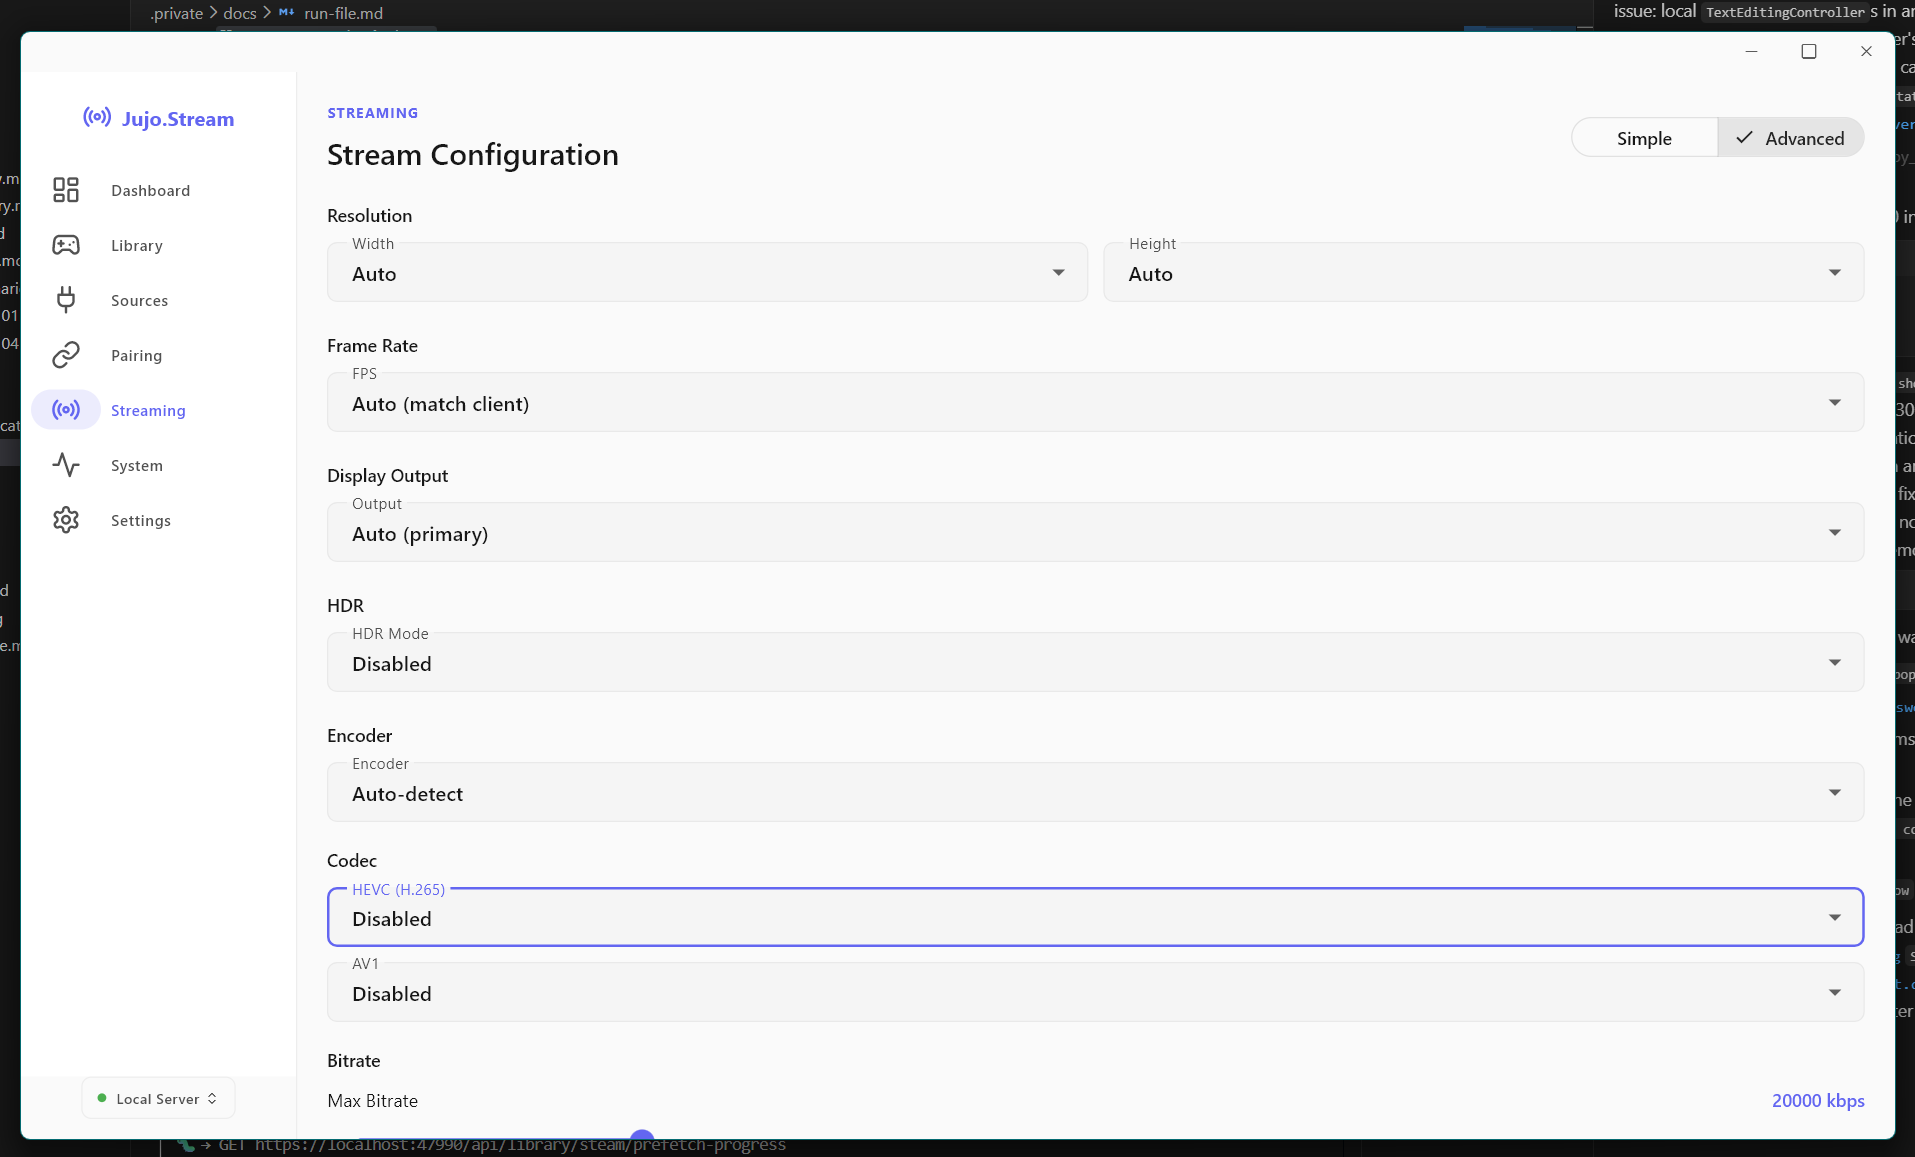
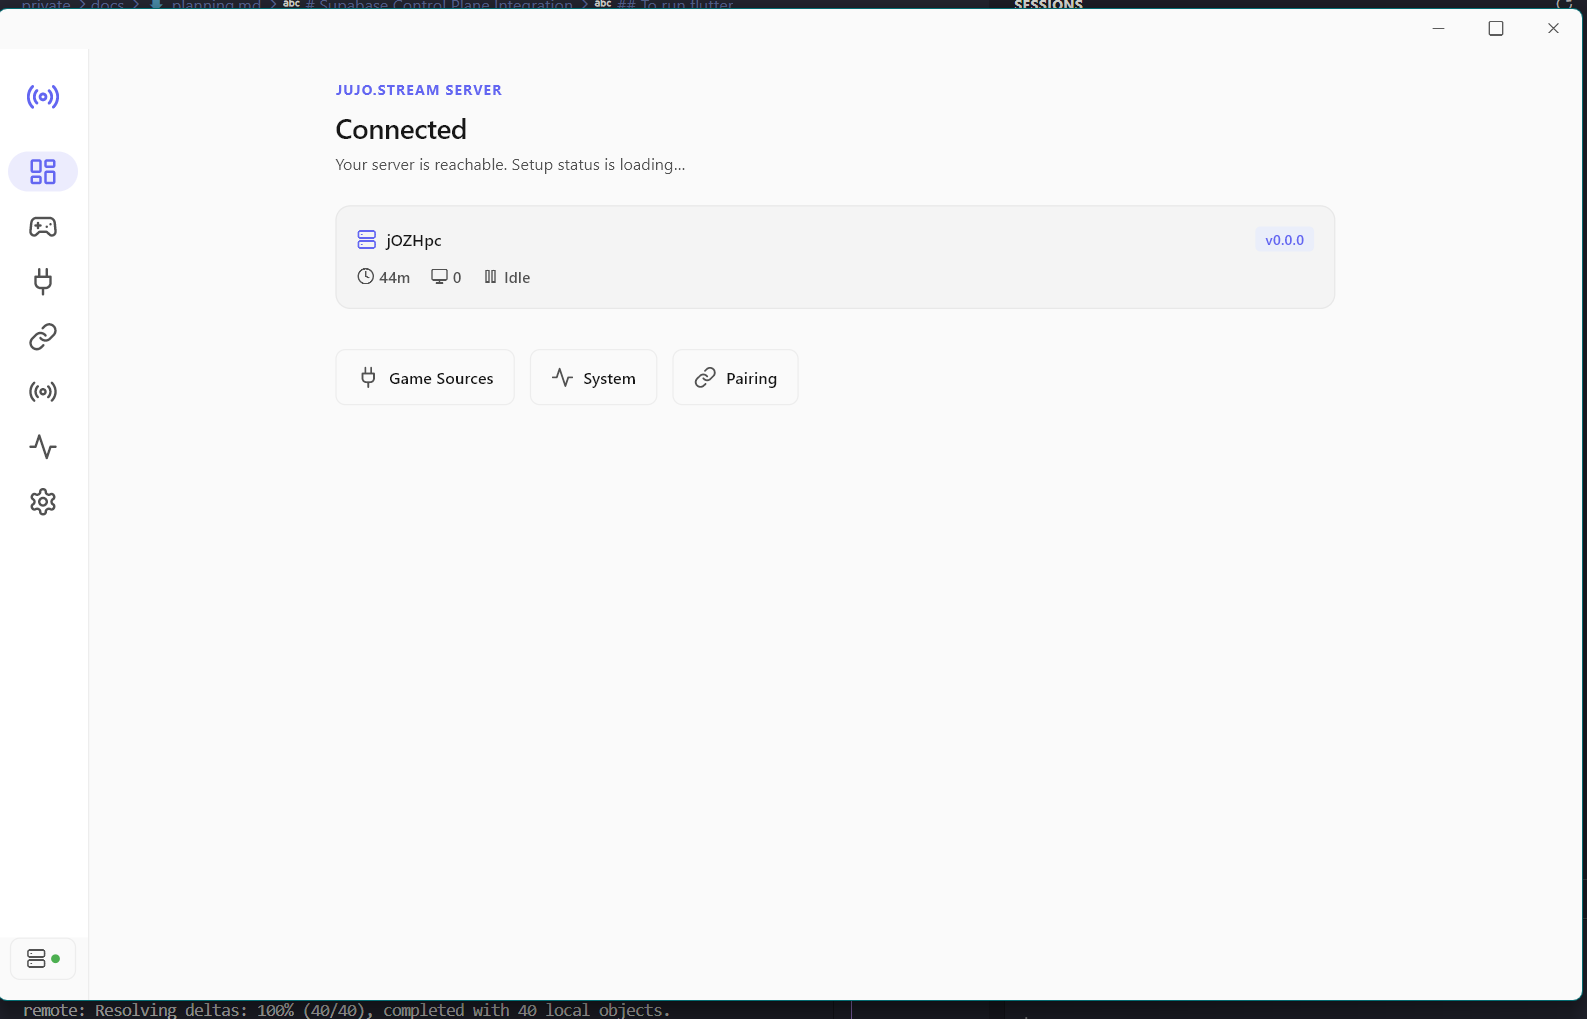
playnite removal

diff --git a/jujo_stream_app/lib/features/dashboard/dashboard_screen.dart b/jujo_stream_app/lib/features/dashboard/dashboard_screen.dart
@@ -923,6 +923,10 @@ class _GameShortcut extends StatelessWidget {
 // ─── No Server Dashboard ──────────────────────────────────────────────────────
 
 /// Shown when no server is reachable. Provides clear CTAs to deploy or connect.
+///
+/// Detects the "session expired after server reinstall" case: if a serverUrl is
+/// configured but the auth token is missing/expired, shows a re-login prompt
+/// instead of the misleading "No server connected" message.
 class _NoServerDashboard extends ConsumerWidget {
   const _NoServerDashboard();
 
@@ -930,10 +934,22 @@ class _NoServerDashboard extends ConsumerWidget {
   Widget build(BuildContext context, WidgetRef ref) {
     final theme = Theme.of(context);
     final colorScheme = theme.colorScheme;
+    final authState = ref.watch(authProvider);
     final processState = ref.watch(serverProcessProvider).state;
     final canDeploy =
         ServerDeployService().canDeploy ||
         processState == ServerProcessState.notInstalled;
+
+    // Detect "session expired" scenario:
+    // Server URL is configured but token is null/empty (expired after reinstall).
+    final hasServerUrl =
+        authState.serverUrl != null && authState.serverUrl!.isNotEmpty;
+    final hasValidToken = authState.token != null && authState.token!.isNotEmpty;
+    final isSessionExpired = hasServerUrl && !hasValidToken;
+
+    if (isSessionExpired) {
+      return _SessionExpiredDashboard(serverUrl: authState.serverUrl!);
+    }
 
     return SingleChildScrollView(
       padding: const EdgeInsets.all(AppSpacing.xl),
@@ -1008,6 +1024,113 @@ class _NoServerDashboard extends ConsumerWidget {
                         onPressed: () => context.go('/settings'),
                         icon: const Icon(LucideIcons.link, size: 18),
                         label: const Text('Connect to Existing Server'),
+                      ),
+                    ),
+                  ],
+                ),
+              ),
+            ],
+          ),
+        ),
+      ),
+    );
+  }
+}
+
+// ─── Session Expired Dashboard ────────────────────────────────────────────────
+
+/// Shown when a server URL is configured but the session token is expired/invalid.
+/// This typically happens after a server reinstall wipes the token store.
+class _SessionExpiredDashboard extends StatelessWidget {
+  const _SessionExpiredDashboard({required this.serverUrl});
+
+  final String serverUrl;
+
+  @override
+  Widget build(BuildContext context) {
+    final theme = Theme.of(context);
+    final colorScheme = theme.colorScheme;
+
+    return SingleChildScrollView(
+      padding: const EdgeInsets.all(AppSpacing.xl),
+      child: Center(
+        child: ConstrainedBox(
+          constraints: const BoxConstraints(maxWidth: 800),
+          child: Column(
+            crossAxisAlignment: CrossAxisAlignment.start,
+            children: [
+              _SectionHeader(
+                overline: 'Jujo.Stream Server',
+                title: 'Session expired',
+                subtitle:
+                    'Your server is configured but your session token is no longer valid. '
+                    'This usually happens after a server reinstall.',
+              ),
+              const SizedBox(height: AppSpacing.xxl),
+
+              // Session expired action card
+              Container(
+                width: double.infinity,
+                padding: const EdgeInsets.all(AppSpacing.xl),
+                decoration: BoxDecoration(
+                  color: colorScheme.errorContainer.withValues(alpha: 0.15),
+                  borderRadius: BorderRadius.circular(AppRadius.lg),
+                  border: Border.all(
+                    color: colorScheme.error.withValues(alpha: 0.3),
+                  ),
+                ),
+                child: Column(
+                  children: [
+                    Icon(
+                      LucideIcons.keyRound,
+                      size: 48,
+                      color: colorScheme.error.withValues(alpha: 0.7),
+                    ),
+                    const SizedBox(height: AppSpacing.lg),
+                    Text(
+                      'Authentication required',
+                      style: theme.textTheme.titleMedium?.copyWith(
+                        fontWeight: FontWeight.w600,
+                      ),
+                    ),
+                    const SizedBox(height: AppSpacing.sm),
+                    Text(
+                      'Log in again to reconnect to your server at:',
+                      style: theme.textTheme.bodySmall?.copyWith(
+                        color: colorScheme.onSurfaceVariant,
+                      ),
+                      textAlign: TextAlign.center,
+                    ),
+                    const SizedBox(height: AppSpacing.xs),
+                    Text(
+                      serverUrl,
+                      style: theme.textTheme.bodySmall?.copyWith(
+                        color: colorScheme.onSurface,
+                        fontWeight: FontWeight.w600,
+                        fontFamily: 'monospace',
+                      ),
+                      textAlign: TextAlign.center,
+                    ),
+                    const SizedBox(height: AppSpacing.xl),
+
+                    // Primary: Log in again
+                    SizedBox(
+                      width: double.infinity,
+                      child: FilledButton.icon(
+                        onPressed: () => context.go('/login'),
+                        icon: const Icon(LucideIcons.logIn, size: 18),
+                        label: const Text('Log In Again'),
+                      ),
+                    ),
+                    const SizedBox(height: AppSpacing.md),
+
+                    // Secondary: Connect to different server
+                    SizedBox(
+                      width: double.infinity,
+                      child: OutlinedButton.icon(
+                        onPressed: () => context.go('/settings'),
+                        icon: const Icon(LucideIcons.link, size: 18),
+                        label: const Text('Connect to Different Server'),
                       ),
                     ),
                   ],

diff --git a/src/config_playnite.h b/src/config_playnite.h
@@ -16,8 +16,10 @@ namespace config {
   };
 
   struct playnite_t {
-    // Enabled flag removed; integration manager always runs (server up when plugin installed)
-    bool auto_sync = true;  // enable automatic sync from Playnite
+    // Master kill switch: when false, all Playnite integration is disabled (IPC, sync, launch).
+    // Set to false permanently as part of the migration away from third-party Playnite dependency.
+    bool enabled = false;
+    bool auto_sync = false;  // enable automatic sync from Playnite (disabled: no longer depends on third-party)
     bool sync_all_installed = false;  // include every installed game regardless of filters
     int recent_games = 10;  // N most recent games
     // If > 0, only treat games whose last played time is within this many days

diff --git a/src/process.cpp b/src/process.cpp
@@ -1765,7 +1765,7 @@ namespace proc {
 
     // Playnite-backed apps: invoke via Playnite and treat as placebo (lifetime managed via Playnite status)
 #ifdef _WIN32
-    if (!_app.playnite_id.empty() && _app.cmd.empty()) {
+    if (!_app.playnite_id.empty() && _app.cmd.empty() && config::playnite.enabled) {
       // Auto-update Playnite plugin if an update is available
       try {
         std::string installed_ver, packaged_ver;
@@ -1879,7 +1879,7 @@ namespace proc {
     } else
 #endif
 #ifdef _WIN32
-      if (_app.playnite_fullscreen) {
+      if (_app.playnite_fullscreen && config::playnite.enabled) {
       BOOST_LOG(info) << "Launching Playnite in fullscreen via helper";
       bool launched = false;
       try {

diff --git a/src/platform/windows/playnite_integration.cpp b/src/platform/windows/playnite_integration.cpp
@@ -803,7 +803,18 @@ namespace platf::playnite {
     std::condition_variable inactivity_cv_;  // For efficient sleeping with early wake-up
   };
 
+  // Minimal no-op guard returned when Playnite is disabled.
+  class deinit_noop_t: public ::platf::deinit_t {
+  public:
+    ~deinit_noop_t() override = default;
+  };
+
   std::unique_ptr<::platf::deinit_t> start() {
+    // Master kill switch: skip all Playnite IPC/integration when disabled.
+    if (!config::playnite.enabled) {
+      BOOST_LOG(info) << "Playnite integration disabled (config::playnite.enabled=false). Skipping.";
+      return std::make_unique<deinit_noop_t>();
+    }
     return std::make_unique<deinit_t_impl>();
   }
 
